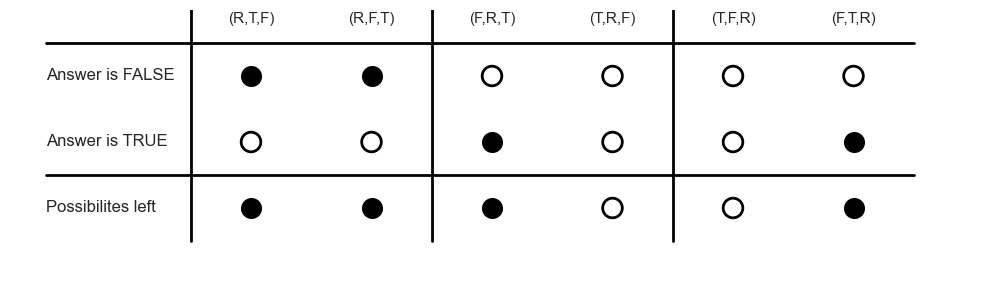
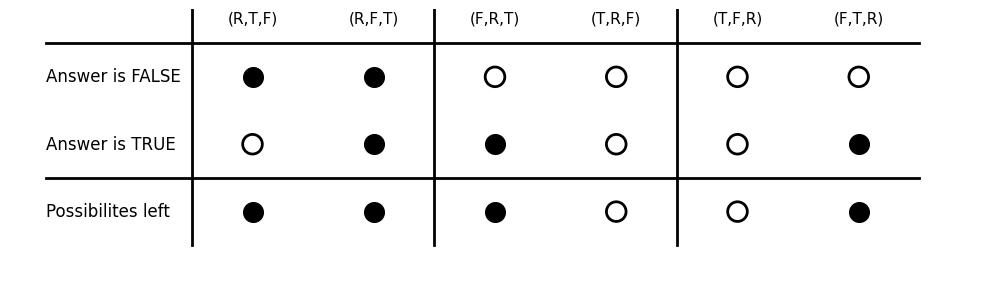
pic size

diff --git a/_posts/2026-04-24-smullyan_puzzle.md b/_posts/2026-04-24-smullyan_puzzle.md
@@ -296,15 +296,17 @@ What are the necessary conditions a question needs to satisfy to lead us to a so
 - It needs to leave us with at most 4 candidate permutations. Otherwise, two questions are not enough, even if we are sure that it is not $R$ who answers.
 - We need to be able to idenfity one goddess who is not $R$.
 
-Let's quickly explain why the second condition is indeed necessary. 
+Let's quickly explain why the second condition is indeed necessary. Suppose that our questions is about the subset
+
+$$ \mathcal{S} = \{ \} $$
 
 
-<figure style="max-width: 600px; margin: 1.5em auto; text-align: center;">
+<figure style="max-width: 750px; margin: 1.5em auto; text-align: center;">
   <img src="/assets/img/goddesses/goddesses_scenarios.png"
-     alt="Scenarios"
-     style="max-width: 600px; width: 100%; display: block; margin: 1.5em auto;">
+       alt="Scenarios"
+       style="width: 100%; display: block;">
   <figcaption style="font-size: 0.9em; color: #000;">
-    The black dots represent the candidate permutations left after getting an answer for the first question. Since we don't know if the goddess was lying or not, we need to consider both possibilites.
+    ...
   </figcaption>
 </figure>
 